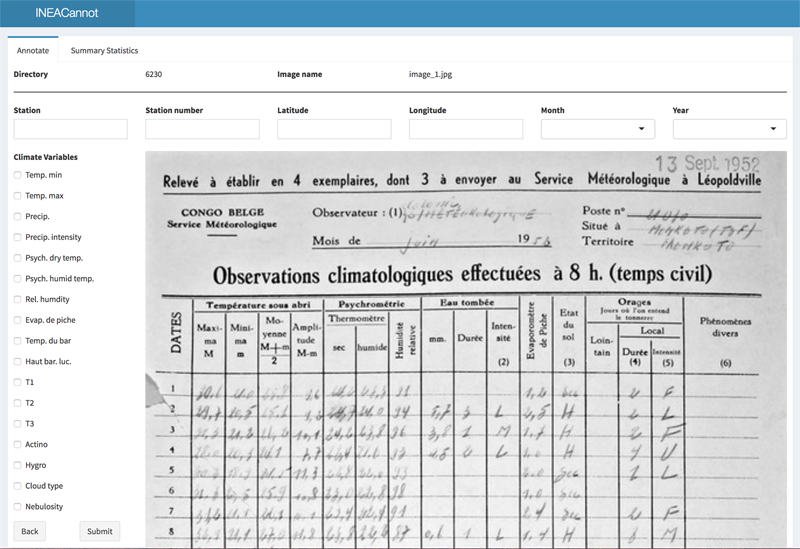
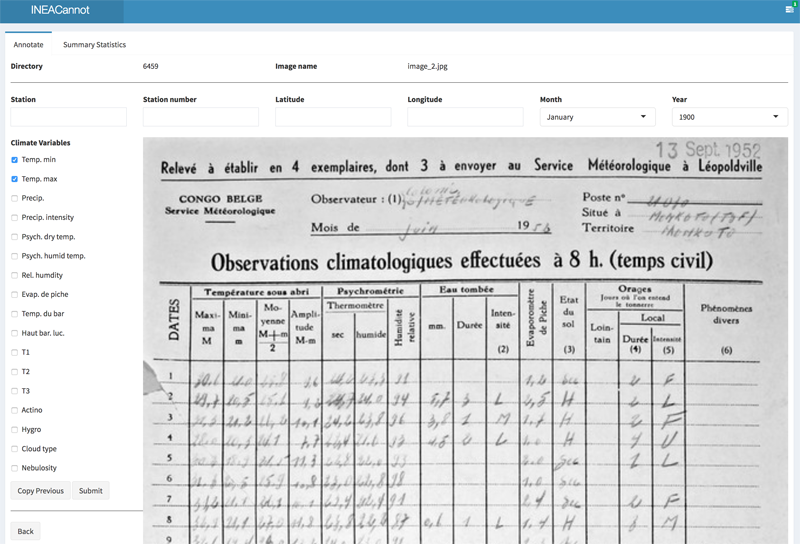
adding 'copy previous' feature to copy the values of a previous entry but incrementing the date values

Changed region(s): [[0.1562, 0.25, 1.0, 1.0], [0.0, 0.0, 1.0, 0.2188], [0.0, 0.25, 0.1562, 1.0]]

diff --git a/README.md b/README.md
@@ -23,7 +23,9 @@ To start the shiny web interface use the following command, where the path varia
 ineacannot(path = "/the/location/of/your/images/")
 ```
 
-An interface will start in your default browser. Fill in the open fields, and flag all data types available and click the **submit** button. In case you are not sure or want to review a previous result click the **back** button. After reviewing the data clicking on the submit button will skip to the next record.
+An interface will start in your default browser. Fill in the open fields, and flag all data types available and click the **submit** button. In case you are not sure or want to review a previous result click the **back** button. After reviewing the data clicking on the submit button will skip to the next record. 
+
+For sequential climate data records there is a **copy previous** button which copies previous marked values and increments the month value. When the end of a year is reached, the year value will increment and the month value is set to January. This should speed up annotation of long sequential data records without minimal interaction.
 
 ![](./docs/annotate.png)
 
